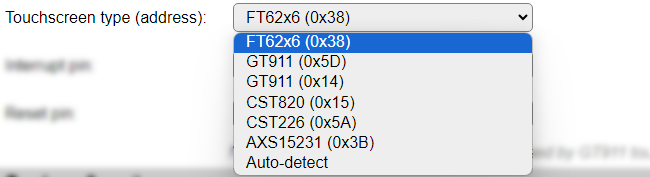
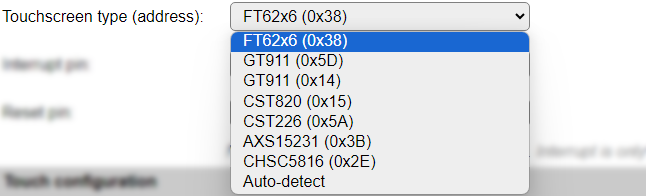
[P123] Add support for CHSC5816 and update documentation

diff --git a/src/src/PluginStructs/P123_data_struct.cpp b/src/src/PluginStructs/P123_data_struct.cpp
@@ -12,6 +12,7 @@ const __FlashStringHelper* toString(P123_TouchType_e tType) {
     case P123_TouchType_e::CST820: return F("CST820 (0x15)");
     case P123_TouchType_e::CST226: return F("CST226 (0x5A)");
     case P123_TouchType_e::AXS15231: return F("AXS15231 (0x3B)");
+    case P123_TouchType_e::CHSC5816: return F("CHSC5816 (0x2E)");
     case P123_TouchType_e::Automatic: return F("Auto-detect");
   }
   return F("");
@@ -20,7 +21,7 @@ const __FlashStringHelper* toString(P123_TouchType_e tType) {
 /**
  * Order must match enum P123_TouchType_e, with Automatic (-1) ignored
  */
-const uint8_t P123_i2cAddressValues[] = { FT6X36_ADDR, GT911_ADDR1, GT911_ADDR2, CST820_ADDR, CST226_ADDR, AXS15231_ADDR };
+const uint8_t P123_i2cAddressValues[] = { FT6X36_ADDR, GT911_ADDR1, GT911_ADDR2, CST820_ADDR, CST226_ADDR, AXS15231_ADDR, CHSC5816_ADDR };
 
 bool P123_data_struct::plugin_i2c_has_address(const int Par1) {
   return intArrayContains(NR_ELEMENTS(P123_i2cAddressValues), P123_i2cAddressValues, Par1);
@@ -51,6 +52,7 @@ P123_TouchType_e P123_data_struct::getTouchType() {
       case CT_TYPE_CST820: return P123_TouchType_e::CST820;
       case CT_TYPE_CST226: return P123_TouchType_e::CST226;
       case CT_TYPE_AXS15231: return P123_TouchType_e::AXS15231;
+      case CT_TYPE_CHSC5816: return P123_TouchType_e::CHSC5816;
     }
   }
   return P123_TouchType_e::Automatic;
@@ -65,6 +67,7 @@ int P123_data_struct::getBBCapTouchType(P123_TouchType_e touchType) {
     case P123_TouchType_e::CST820: return CT_TYPE_CST820;
     case P123_TouchType_e::CST226: return CT_TYPE_CST226;
     case P123_TouchType_e::AXS15231: return CT_TYPE_AXS15231;
+    case P123_TouchType_e::CHSC5816: return CT_TYPE_CHSC5816;
   }
   return CT_TYPE_UNKNOWN;
 }

diff --git a/lib/bb_captouch/src/bb_captouch.h b/lib/bb_captouch/src/bb_captouch.h
@@ -17,6 +17,8 @@
 //
 // Written for the many variants of ESP32 + Capacitive touch LCDs on the market
 //
+// 2024-06-10 tonhuisman: Add support for CHSC5816 touchscreen, code borrowed from Lewis He SensorLib at
+//                        https://github.com/lewisxhe/SensorLib
 // 2024-06-02 tonhuisman: Fix FT62x6 to not return true when no data is read
 //                        Formatted source using Uncrustify
 //                        Adjust I2C handling so ESPEasy stays happy, ignoring SDA/SCL pins and I2C enable/disable
@@ -38,6 +40,7 @@ enum {
   CT_TYPE_CST820,
   CT_TYPE_CST226,
   CT_TYPE_AXS15231,
+  CT_TYPE_CHSC5816,
   CT_TYPE_COUNT
 };
 
@@ -47,6 +50,7 @@ enum {
 # define CST820_ADDR    0x15
 # define CST226_ADDR    0x5A
 # define AXS15231_ADDR  0x3B
+# define CHSC5816_ADDR  0x2E
 
 // CST8xx gestures
 enum {
@@ -91,6 +95,22 @@ enum {
 
 // register offset to info for the second touch point
 # define PT2_OFFSET 6
+
+union __CHSC5816_PointReg {
+  struct {
+    uint8_t status;
+    uint8_t fingerNumber;
+    uint8_t x_l8;
+    uint8_t y_l8;
+    uint8_t z;
+    uint8_t x_h4  : 4;
+    uint8_t y_h4  : 4;
+    uint8_t id    : 4;
+    uint8_t event : 4;
+    uint8_t p2;
+  }             rp;
+  unsigned char data[8];
+};
 
 # ifndef __TOUCHINFO_STRUCT__
 #  define __TOUCHINFO_STRUCT__

diff --git a/lib/bb_captouch/src/bb_captouch.cpp b/lib/bb_captouch/src/bb_captouch.cpp
@@ -119,6 +119,14 @@ int BBCapTouch::init(int iSDA, int iSCL, int iRST, int iINT, uint32_t u32Speed) 
       reset(iRST);
     }
   } // CST820
+  else if (I2CTest(CHSC5816_ADDR)) { // CHSC5816
+    _iType = CT_TYPE_CHSC5816;
+    _iAddr = CHSC5816_ADDR;
+
+    if (iRST != -1) {
+      reset(iRST);
+    }
+  } // CHSC5816
   #ifdef ESP32
   Wire.setTimeout(orgTimeout); // ESPEasy: Restore original I2C timeout
   #endif // ifdef ESP32
@@ -399,6 +407,24 @@ int BBCapTouch::getSamples(TOUCHINFO *pTI) {
       return i > 0;
     }
   } // GT911
+  else if (_iType == CT_TYPE_CHSC5816) { // CHSC5816
+    __CHSC5816_PointReg touch;
+
+    // CHSC5816_REG_POINT
+    uint8_t write_buffer[] = { 0x20, 0x00, 0x00, 0x2c };
+    I2CWrite(_iAddr, write_buffer, 4);
+    I2CRead(_iAddr, touch.data, 8);
+
+    if ((touch.rp.status == 0xFF) && (touch.rp.fingerNumber == 0)) {
+      return 0;
+    }
+    pTI->x[0] = static_cast<uint16_t>(touch.rp.x_h4 << 8) | touch.rp.x_l8;
+    pTI->y[0] = static_cast<uint16_t>(touch.rp.y_h4 << 8) | touch.rp.y_l8;
+
+    if (_iOrientation != 0) { fixSamples(pTI); }
+
+    return 1;
+  } // CHSC5816
   return 0;
 }   /* getSamples() */
 

diff --git a/src/src/WebServer/I2C_Scanner.cpp b/src/src/WebServer/I2C_Scanner.cpp
@@ -221,6 +221,9 @@ String getKnownI2Cdevice(uint8_t address) {
     case 0x29:
       result += F("TSL2561,TSL2591,TCS34725,VL53L0X,VL53L1X");
       break;
+    case 0x2E:
+      result += F("CHSC5816");
+      break;
     case 0x30:
       result += F("VL53L0X,VL53L1X");
       break;

diff --git a/src/src/PluginStructs/P123_data_struct.h b/src/src/PluginStructs/P123_data_struct.h
@@ -65,6 +65,7 @@ enum class P123_TouchType_e : int8_t {
   CST820    = 3,
   CST226    = 4,
   AXS15231  = 5,
+  CHSC5816  = 6,
 };
 
 const __FlashStringHelper* toString(P123_TouchType_e tType);

diff --git a/docs/source/Plugin/P123.rst b/docs/source/Plugin/P123.rst
@@ -77,6 +77,8 @@ The configured display will be used to draw the objects, if any, that can be con
 
 * *AXS15231 (0x3B)*: AXS15231 touchscreen controller.
 
+* *CHSC5816 (0x2E)*: CHSC5816 touchscreen controller.
+
 * *Auto-detect*: Select this option to have the plugin auto-detect the used touchscreen controller. This auto-detect is mostly based on an I2C device being available at the shown addresses, so might get confused if a non-touchscreen I2C device at one of these addresses is installed.
 
 |
